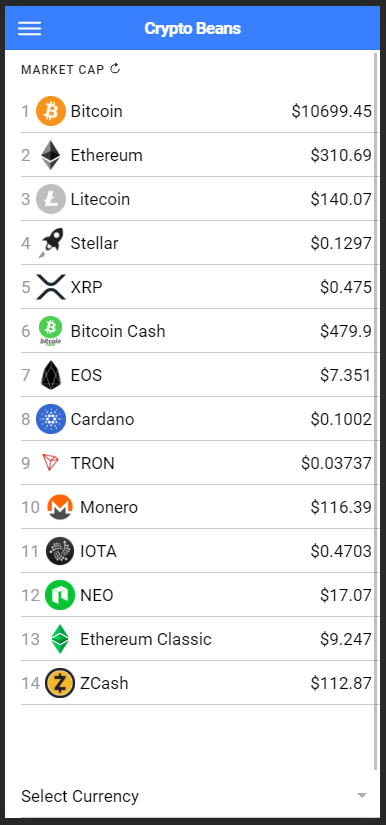
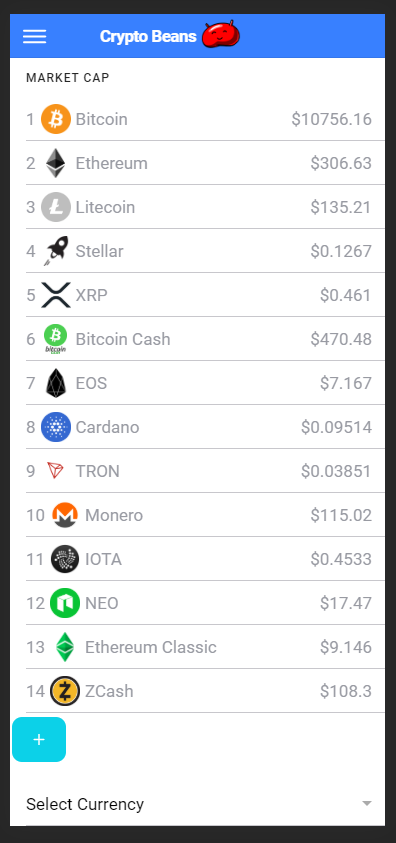
(Docs): Correct spellng mistakes in README

Changed region(s): [[0.0, 0.0, 0.9948, 1.0]]

diff --git a/src/app/home/home.page.html b/src/app/home/home.page.html
@@ -4,7 +4,12 @@
           <ion-menu-button></ion-menu-button>
         </ion-buttons>
         <ion-title>
-          Crypto Beans
+          <div>
+            <span id="logo-text">Crypto Beans</span>
+            <span id="logo">
+              <img src="../../assets/images/beans.png" alt="logo" />
+            </span>
+          </div>
         </ion-title>
       </ion-toolbar>
     </ion-header>
@@ -12,15 +17,21 @@
       <ion-list>
         <ion-list-header>
           <ion-label>Market Cap
-            <ion-icon name="refresh"></ion-icon>
+            <ion-icon name=" refresh">
+            </ion-icon>
           </ion-label>
         </ion-list-header>
         <ion-item *ngFor="let coin of supportedCurrencies; let i = index ">
           <ion-text color="medium">{{i + 1}}</ion-text>
-          <ion-img src="assets/images/{{coin.name | lowercase }}.png" alt="Bitcoin SVG"></ion-img>
-          <ion-label>{{coin.name | uppercasefirst }}</ion-label>
-          <span> ${{ coin.price }} </span>
+          <ion-img src="assets/images/{{coin.name | lowercase }}.png" alt="Crypto Currency SVG"></ion-img>
+          <ion-label color="medium">{{coin.name | uppercasefirst }}</ion-label>
+          <span>
+            <ion-text color="medium">${{ coin.price }}</ion-text>
+          </span>
         </ion-item>
+        <ion-button color="secondary">
+          <ion-icon name="add"></ion-icon>
+        </ion-button>
       </ion-list>
     </ion-content>
 

diff --git a/src/app/home/home.page.scss b/src/app/home/home.page.scss
@@ -11,3 +11,26 @@ ion-text {
 ion-img {
   margin-right: 5px;
 }
+
+ion-title {
+
+  div {
+    display: flex;
+    flex-direction: row;
+    margin: 0px;
+    padding: 0px;
+    align-items: center;
+
+    span#logo-text {
+      margin-right: 5px;
+    }
+
+    span#logo {
+
+      img {
+        height: 40px;
+        width: 40px
+      }
+    }
+  }
+}

diff --git a/README.md b/README.md
@@ -1,8 +1,8 @@
 <img src="src/assets/images/crypto beans.PNG" />
 
-# Crpyto Beans
+# Crypto Beans
 
-## Welcome to Crypto Beans, and Android, IOS, Web and Desktop application that will enable you to 
+## Welcome to Crypto Beans, an Android, IOS, Web and Desktop application that will enable you to 
 
 1. Set price alerts 
 
